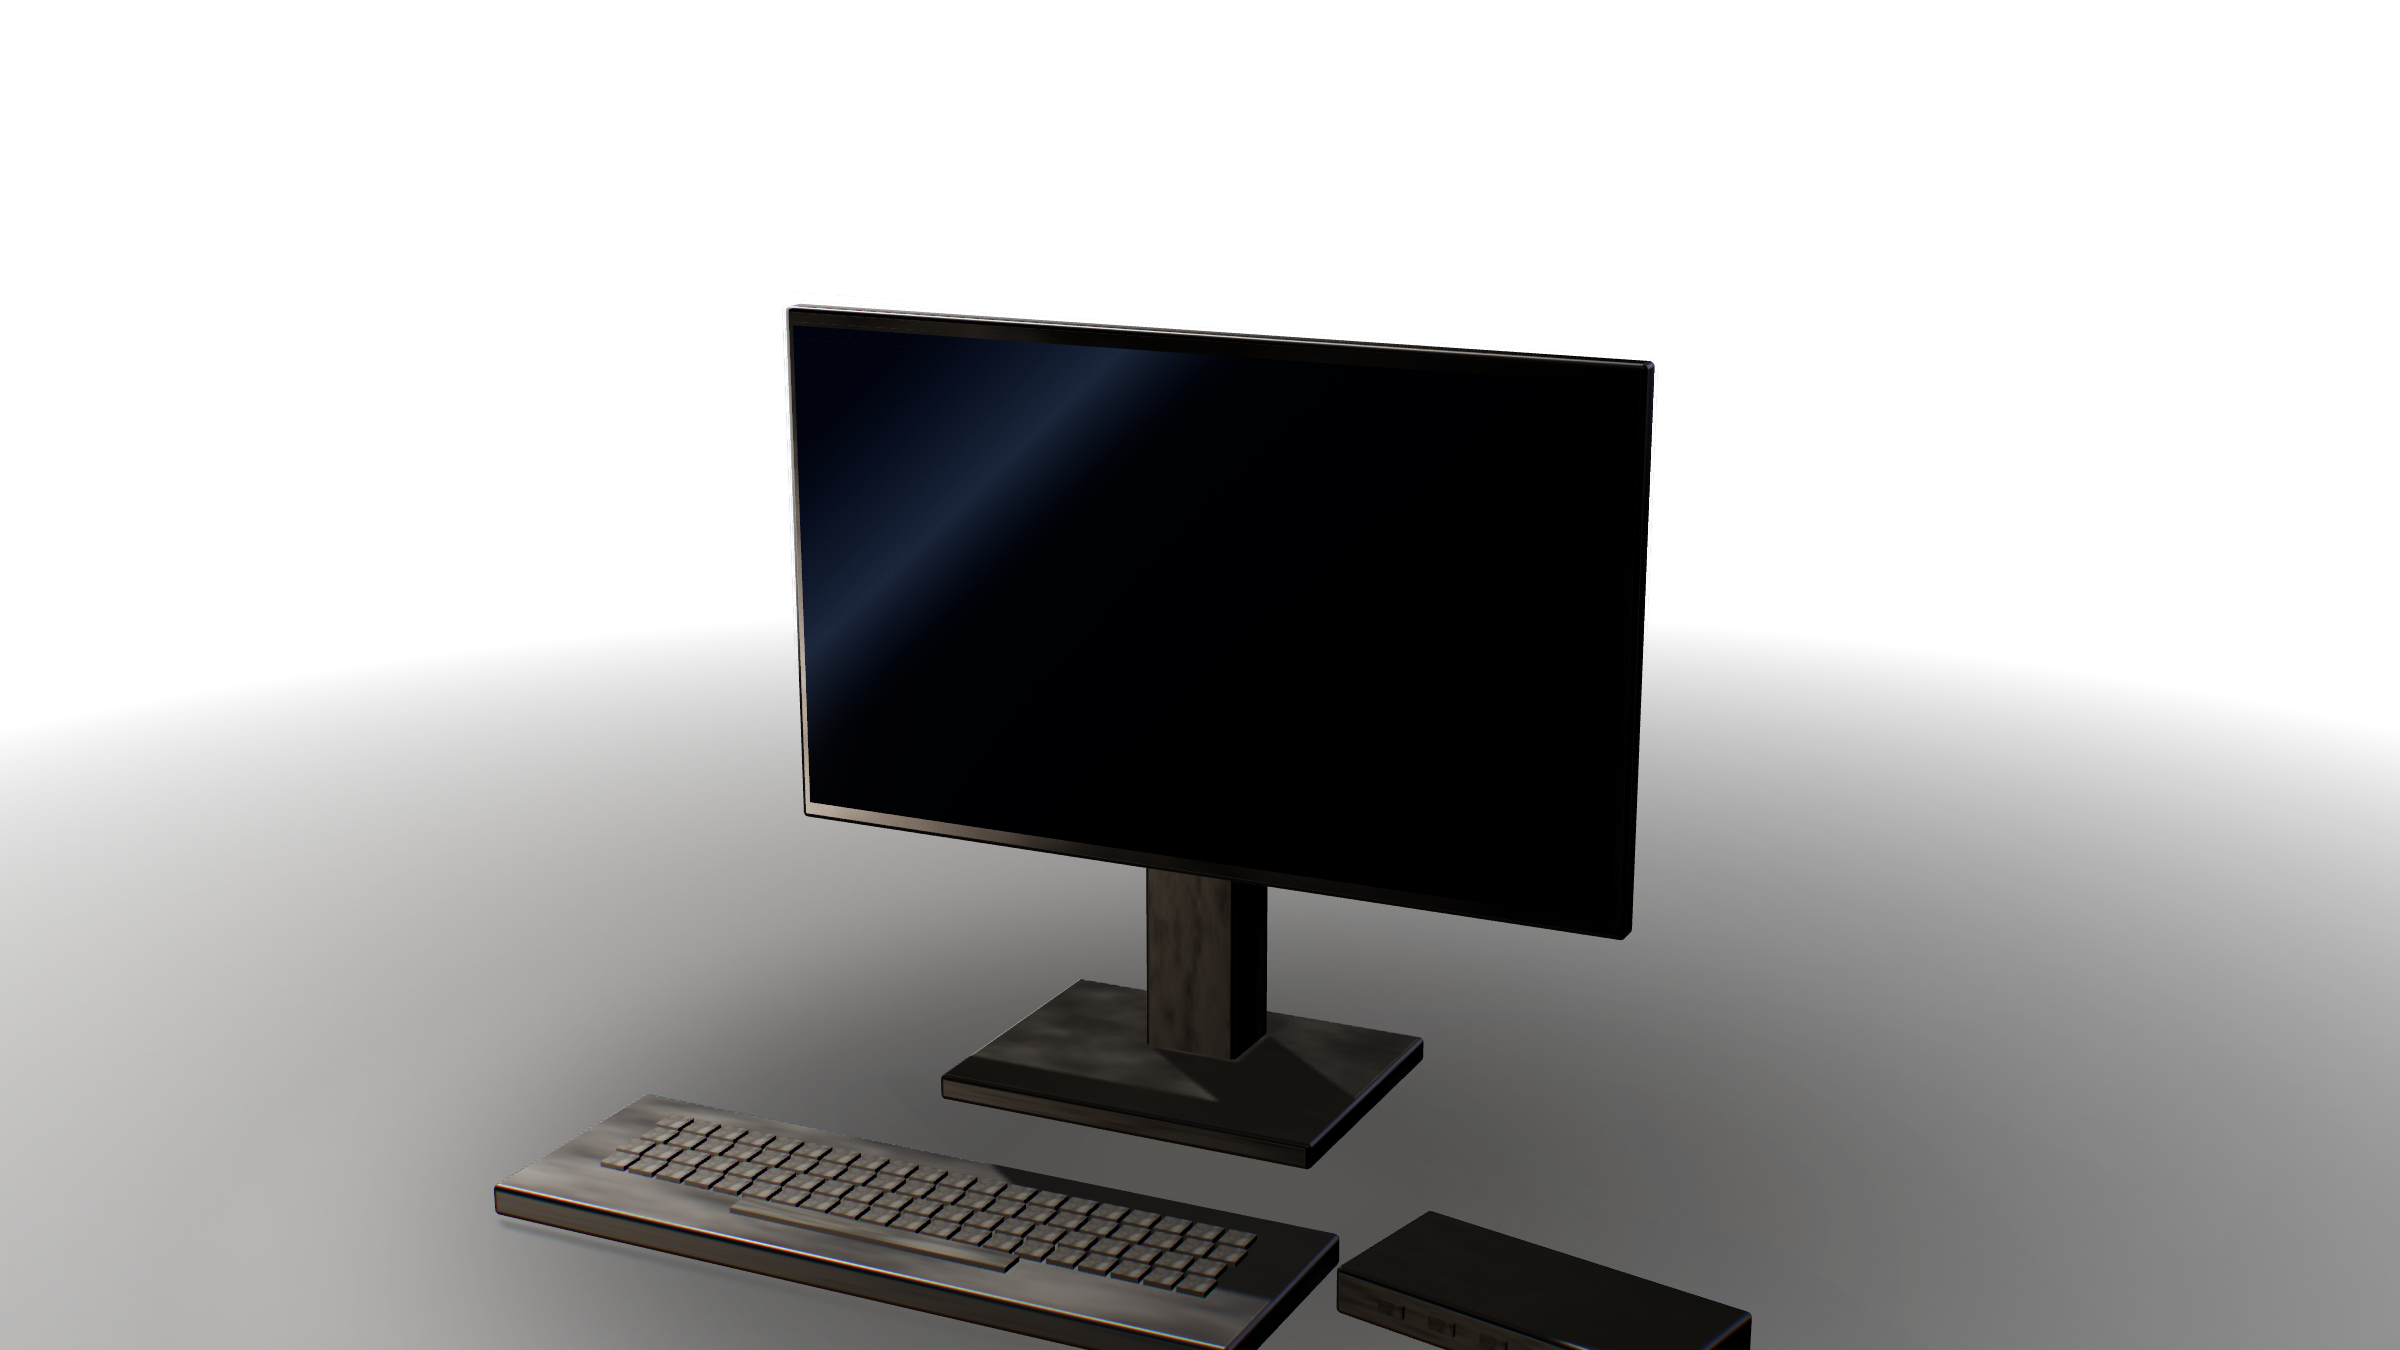
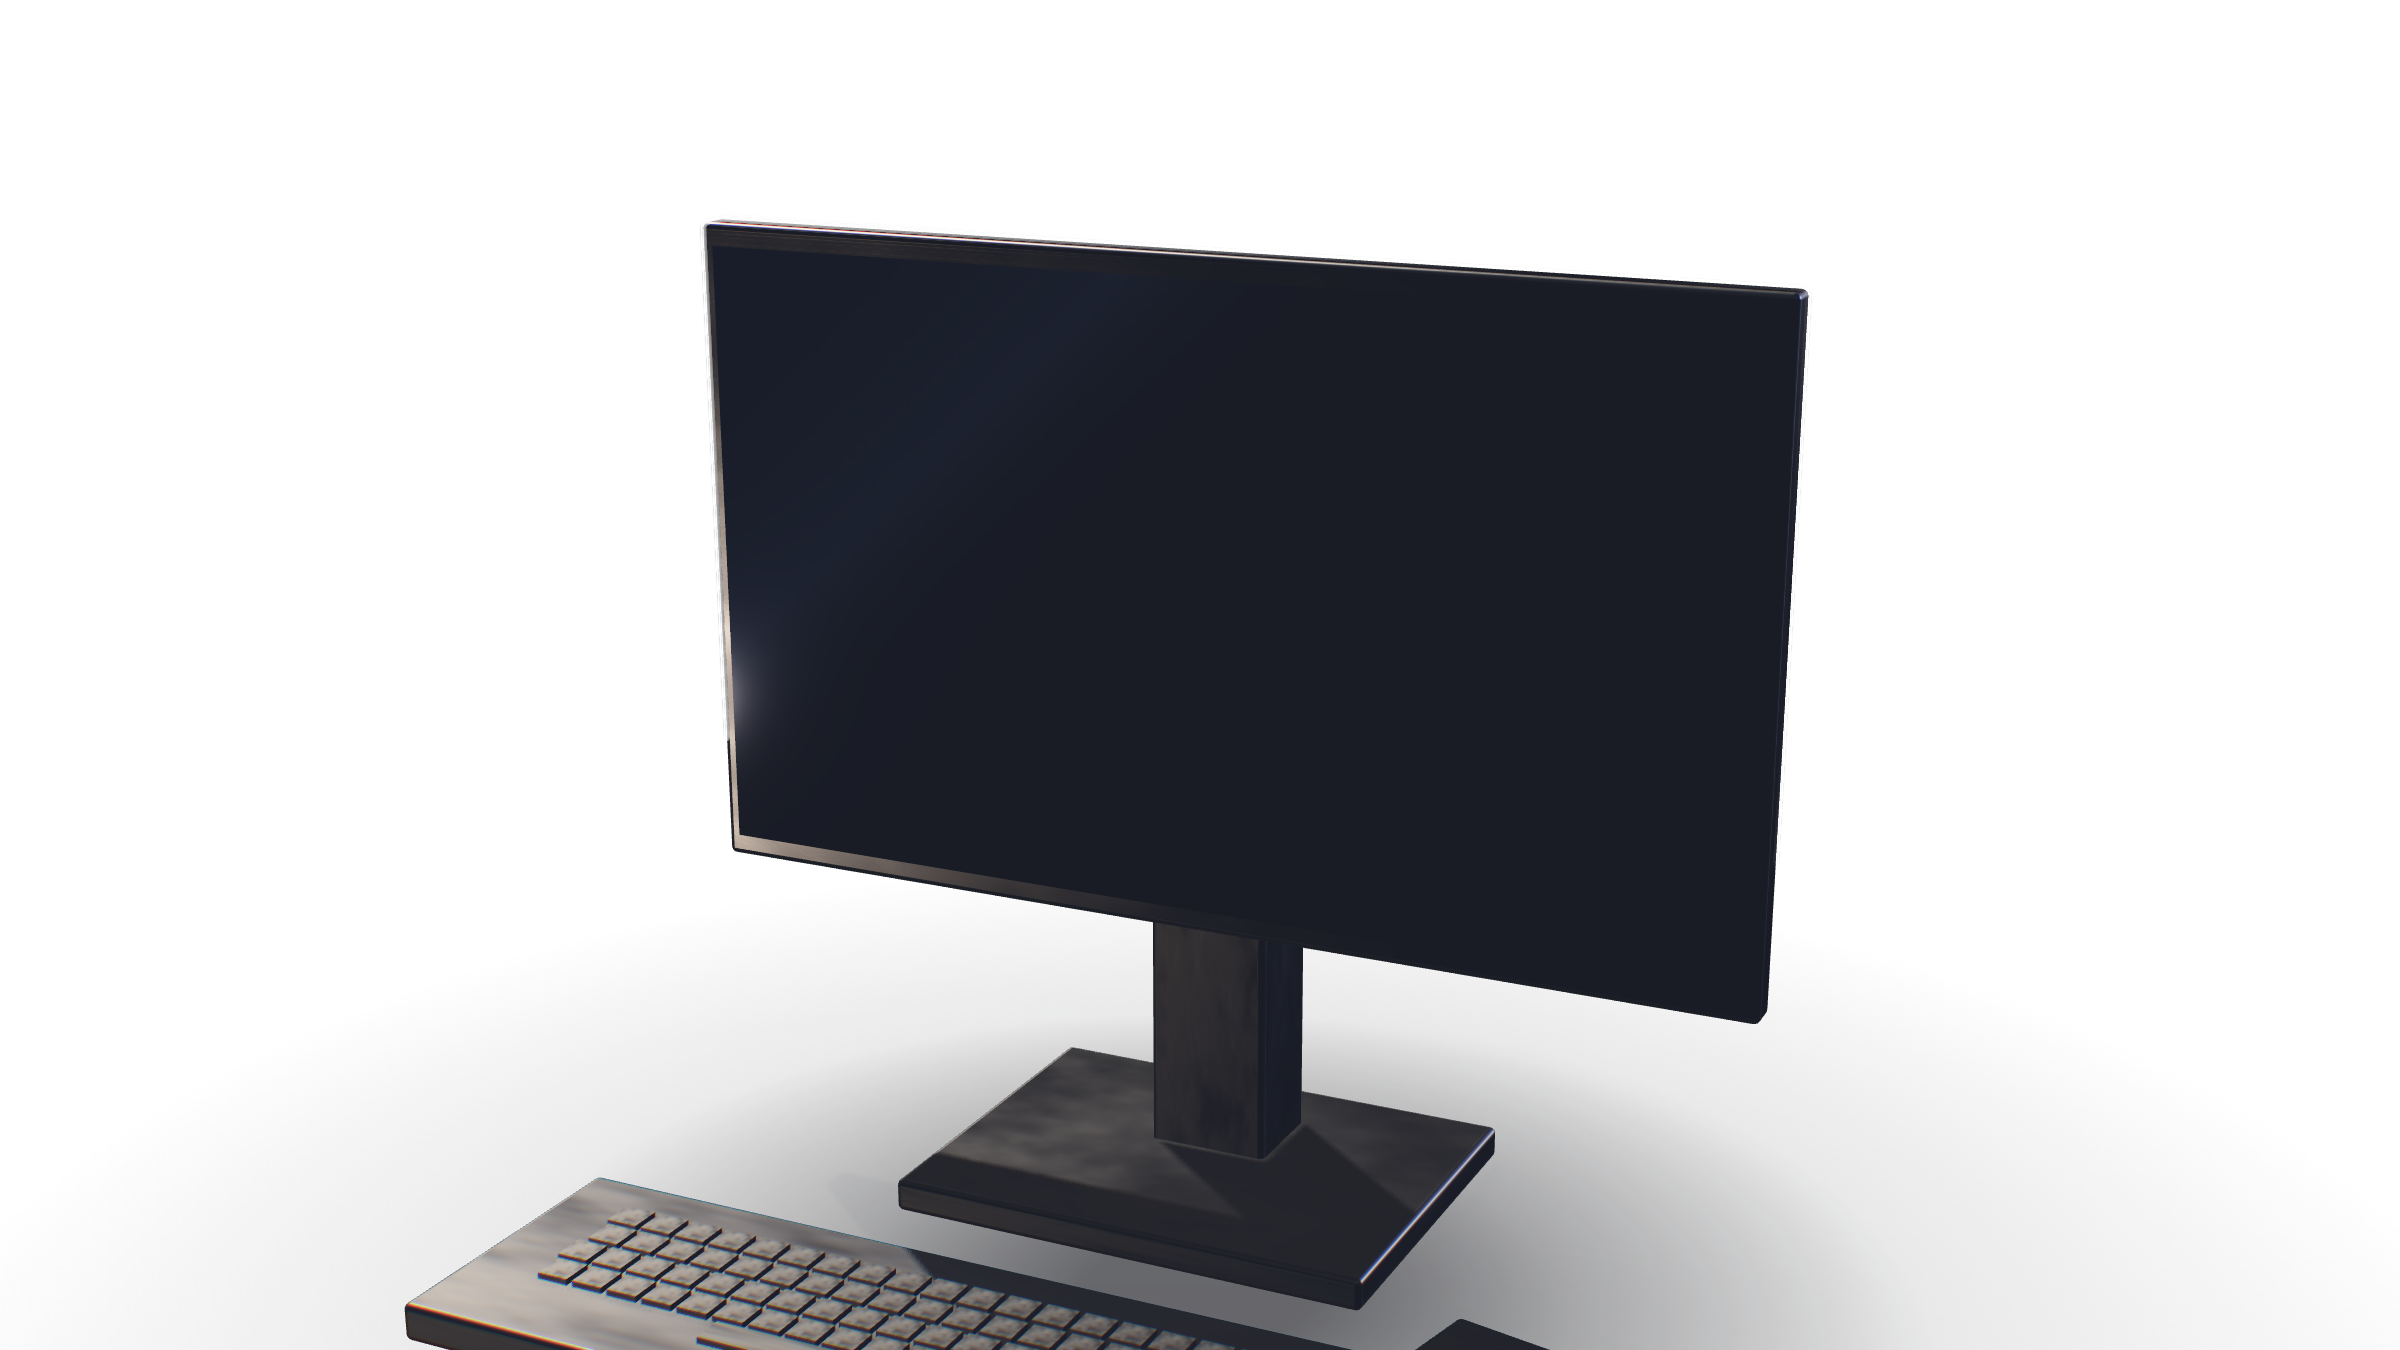
Wear the hardware, grade the frame, light the edge
Three things, and the first is the one that matters.

Edge wear, from the geometry's own normals. These renders are of a
company that sells refurbished hardware and every object in them came
out of the box this morning — not honest, and not photographic: a used
machine is worn where it is handled, and on a chamfered black body that
wear is a bright line along every edge. There is no wear map and, on
geometry whose UVs had to be generated in the first place, nowhere to
paint one. But this hardware is boxes with chamfers, and a chamfer has a
normal pointing between two axes where a face has one pointing along
one, so "how far is this normal from the nearest axis" is a curvature
mask for free and exact on these shapes. Vertex colours multiply and
multiplying cannot brighten, so the material takes the worn colour and
the flat faces are darkened back down to the body — the inverse of how
it reads.

A grade. ACES plus an sRGB transfer is a correct picture and not yet a
photograph. A toe, because a lens flares and a sensor has a floor and
the blacks in a photograph are never zero — clamping them is most of
what makes a dark render look like a dark render. A split tone, shadows
cool and highlights warm, which is the separation the lighting is
already built on. A shoulder rather than a gain. And a per-card trim
from a hash of its own name, because six frames from one shoot are not
identical and six that are is something the eye notices.
[…]

diff --git a/design/art-direction/cards-brief.md b/design/art-direction/cards-brief.md
@@ -420,14 +420,64 @@ by reasoning about it, after the wrong thing had been blamed each time:
   one object. Held down to 0.55 the view-dependent mirror dominates instead,
   and a screen at a different angle to the room shows a different room.
 
+### The sixth pass: wear, a grade, and a light for both
+
+Three things, and the first is the one that matters.
+
+**Edge wear, from the geometry's own normals.** These renders are of a company
+that sells refurbished hardware and every object in them came out of the box
+this morning. That is not honest and it is not photographic: a used machine is
+worn where it is handled, and on a chamfered black body that wear is a bright
+line along every edge — the anodising rubbed back to the metal under it. There
+is no wear map and, on geometry whose UVs had to be generated in the first
+place, nowhere to paint one. But this hardware is boxes with chamfers, and a
+chamfer has a normal pointing between two axes where a face has one pointing
+along one. "How far is this vertex's normal from the nearest axis" is a
+curvature mask for free, and it is exact on exactly the shapes this set is made
+of. Vertex colours multiply and multiplying cannot brighten, so the material
+takes the worn colour and the flat faces are darkened back down to the body
+colour — the inverse of how it reads.
+
+**A grade.** ACES and an sRGB transfer is a correct picture and not yet a
+photograph. A toe, because a lens flares and a sensor has a floor and the
+blacks in a photograph are never zero — clamping them is most of what makes a
+dark render look like a dark render, the shadows going dead rather than deep. A
+split tone, shadows cool and highlights warm, which is the same separation this
+set's lighting is already built on. A shoulder rather than a gain, so the
+midtones firm up without the highlights clipping. And a per-card trim from a
+hash of its own name: six frames from one shoot are not identical, and six that
+are is something the eye notices without being able to name it.
+
+**A kicker.** The one the set was missing. These objects are graphite on a
+near-black ground, and the only thing separating them from it was a floor pool
+bright enough to read as fog. It is also the light the edge wear was drawn for:
+a rubbed chamfer is only visible when something grazes it, and a key from the
+front cannot. Warm key, cool kicker, near-black between them.
+
+Two process notes, both of which cost a pass:
+
+- **The grey veil was the floor, and it took three wrong answers to find.** The
+  bloom was blamed and tightened — the frame's faint-alpha coverage moved by
+  0.0%. The floor's alpha ramp was tightened — three percent. Looking at the
+  alpha channel instead of counting it settled it in one go: the plane was
+  radius x 7, wide enough that its pool filled the lower half of every frame
+  and ran up both sides. Counting a number tells you how much; looking at the
+  channel tells you where, and where was the whole answer.
+- **The noise map was unseeded.** The first line of this brief is that the set
+  has to be re-runnable, and `Math.random()` in the surface generator meant
+  every run produced a different material and therefore different
+  measurements. Two consecutive checker runs disagreeing by a point is not a
+  change anybody made; it is the floor moving underfoot, and it wasted a pass
+  chasing a warmth regression that did not exist. Seeded now.
+
 ### Measured, after
 ```
-cat-laptops.webp     1200x675  ratio 1.778  mean L  29.3  highlight r-b  11.9  sd@render 22.9
-cat-desktops.webp    1200x675  ratio 1.778  mean L  29.1  highlight r-b   n/a  sd@render 21.9
-cat-monitors.webp    1200x675  ratio 1.778  mean L  24.3  highlight r-b  16.5  sd@render 18.8
-cat-fleet.webp       1200x675  ratio 1.778  mean L  41.9  highlight r-b   1.7  sd@render 43.4
-exploded.webp         900x1200 ratio 0.750  mean L  28.4  highlight r-b  20.9  sd@render 24.6
-fleet-scene.webp      900x1350 ratio 0.667  mean L  24.1  highlight r-b   9.5  sd@render 18.6
+cat-laptops.webp     1200x675  ratio 1.778  mean L  27.4  highlight r-b  -9.2  sd@render 20.8
+cat-desktops.webp    1200x675  ratio 1.778  mean L  30.0  highlight r-b   4.9  sd@render 29.8
+cat-monitors.webp    1200x675  ratio 1.778  mean L  27.5  highlight r-b  11.3  sd@render 18.2
+cat-fleet.webp       1200x675  ratio 1.778  mean L  37.3  highlight r-b   9.6  sd@render 38.5
+exploded.webp         900x1200 ratio 0.750  mean L  32.6  highlight r-b  10.9  sd@render 27.3
+fleet-scene.webp      900x1350 ratio 0.667  mean L  27.3  highlight r-b   7.2  sd@render 19.1
 ```
 
 One of these was earned rather than tuned, and it is worth the paragraph.
